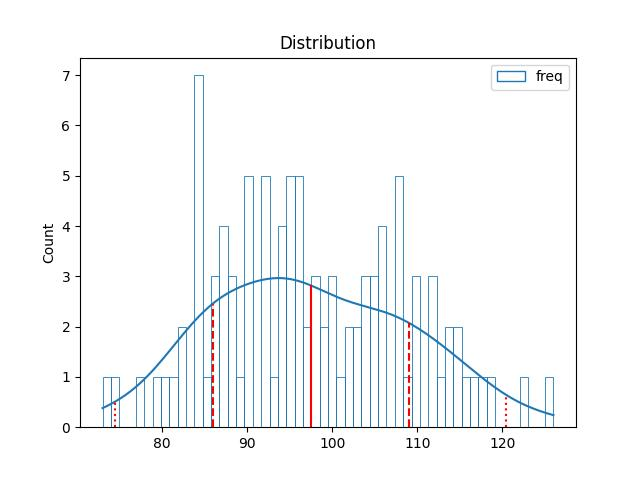
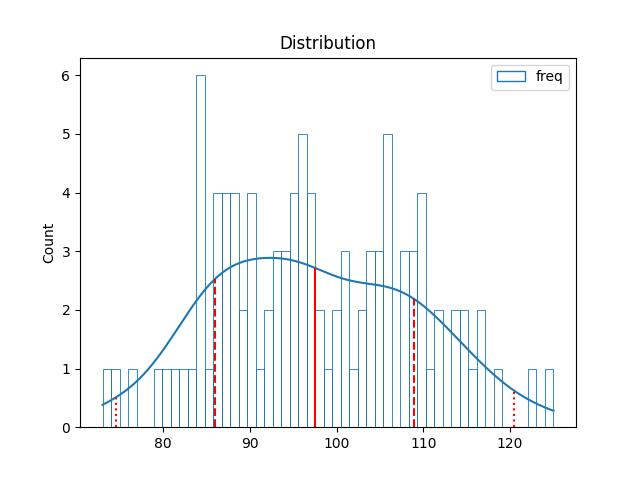
Updated 2023-01-16

diff --git a/README.md b/README.md
@@ -4,13 +4,13 @@ Using GitHub Action to automatically fetch and analyze results of the Vietnam lo
 
 | Lotery      | Loto |
 | :-----------: | :-----------: |
-| <table><tr><td>Date</td><td>15-01-2023</td></tr><tr><td>Special</td><td>44221</td></tr><tr><td>First</td><td>25945</td></tr><tr><td>Second</td><td>14590, 57392</td></tr><tr><td rowspan="2">Third</td><td>84792, 14379, 92716</td></tr><tr><td>86841, 87280, 96564</td></tr><tr><td>Fourth</td><td>7401, 4194, 1991, 5569</td></tr><tr><td rowspan="2">Fifth</td><td>9333, 9812, 3708</td></tr><tr><td>3904, 1078, 2104</td></tr><tr><td>Sixth</td><td>938, 566, 749</td></tr><tr><td>Seventh</td><td>45, 57, 00, 28</td></tr></table> | <table><tr><td>First</td><td>Last</td></tr><tr><td>0</td><td>0, 1, 4, 4, 8</td></tr><tr><td>1</td><td>2, 6</td></tr><tr><td>2</td><td>1, 8</td></tr><tr><td>3</td><td>3, 8</td></tr><tr><td>4</td><td>1, 5, 5, 9</td></tr><tr><td>5</td><td>7</td></tr><tr><td>6</td><td>4, 6, 9</td></tr><tr><td>7</td><td>8, 9</td></tr><tr><td>8</td><td>0</td></tr><tr><td>9</td><td>0, 1, 2, 2, 4</td></tr></table> |
+| <table><tr><td>Date</td><td>16-01-2023</td></tr><tr><td>Special</td><td>48260</td></tr><tr><td>First</td><td>83587</td></tr><tr><td>Second</td><td>79324, 24955</td></tr><tr><td rowspan="2">Third</td><td>97698, 03474, 79118</td></tr><tr><td>27721, 67766, 60068</td></tr><tr><td>Fourth</td><td>9999, 2793, 8423, 8738</td></tr><tr><td rowspan="2">Fifth</td><td>6232, 7156, 7587</td></tr><tr><td>1067, 6779, 6885</td></tr><tr><td>Sixth</td><td>456, 695, 805</td></tr><tr><td>Seventh</td><td>53, 07, 71, 23</td></tr></table> | <table><tr><td>First</td><td>Last</td></tr><tr><td>0</td><td>5, 7</td></tr><tr><td>1</td><td>8</td></tr><tr><td>2</td><td>1, 3, 3, 4</td></tr><tr><td>3</td><td>2, 8</td></tr><tr><td>4</td><td>-</td></tr><tr><td>5</td><td>3, 5, 6, 6</td></tr><tr><td>6</td><td>0, 6, 7, 8</td></tr><tr><td>7</td><td>1, 4, 9</td></tr><tr><td>8</td><td>5, 7, 7</td></tr><tr><td>9</td><td>3, 5, 8, 9</td></tr></table> |
 
 <h2>Analysis of one-year results</h2>
 
-Max: 126. Min: 73.
+Max: 125. Min: 73.
 
-Mean: 97.47. Standard deviation: 11.5.
+Mean: 97.47. Standard deviation: 11.48.
 
 <h3>Detail</h3>
 
